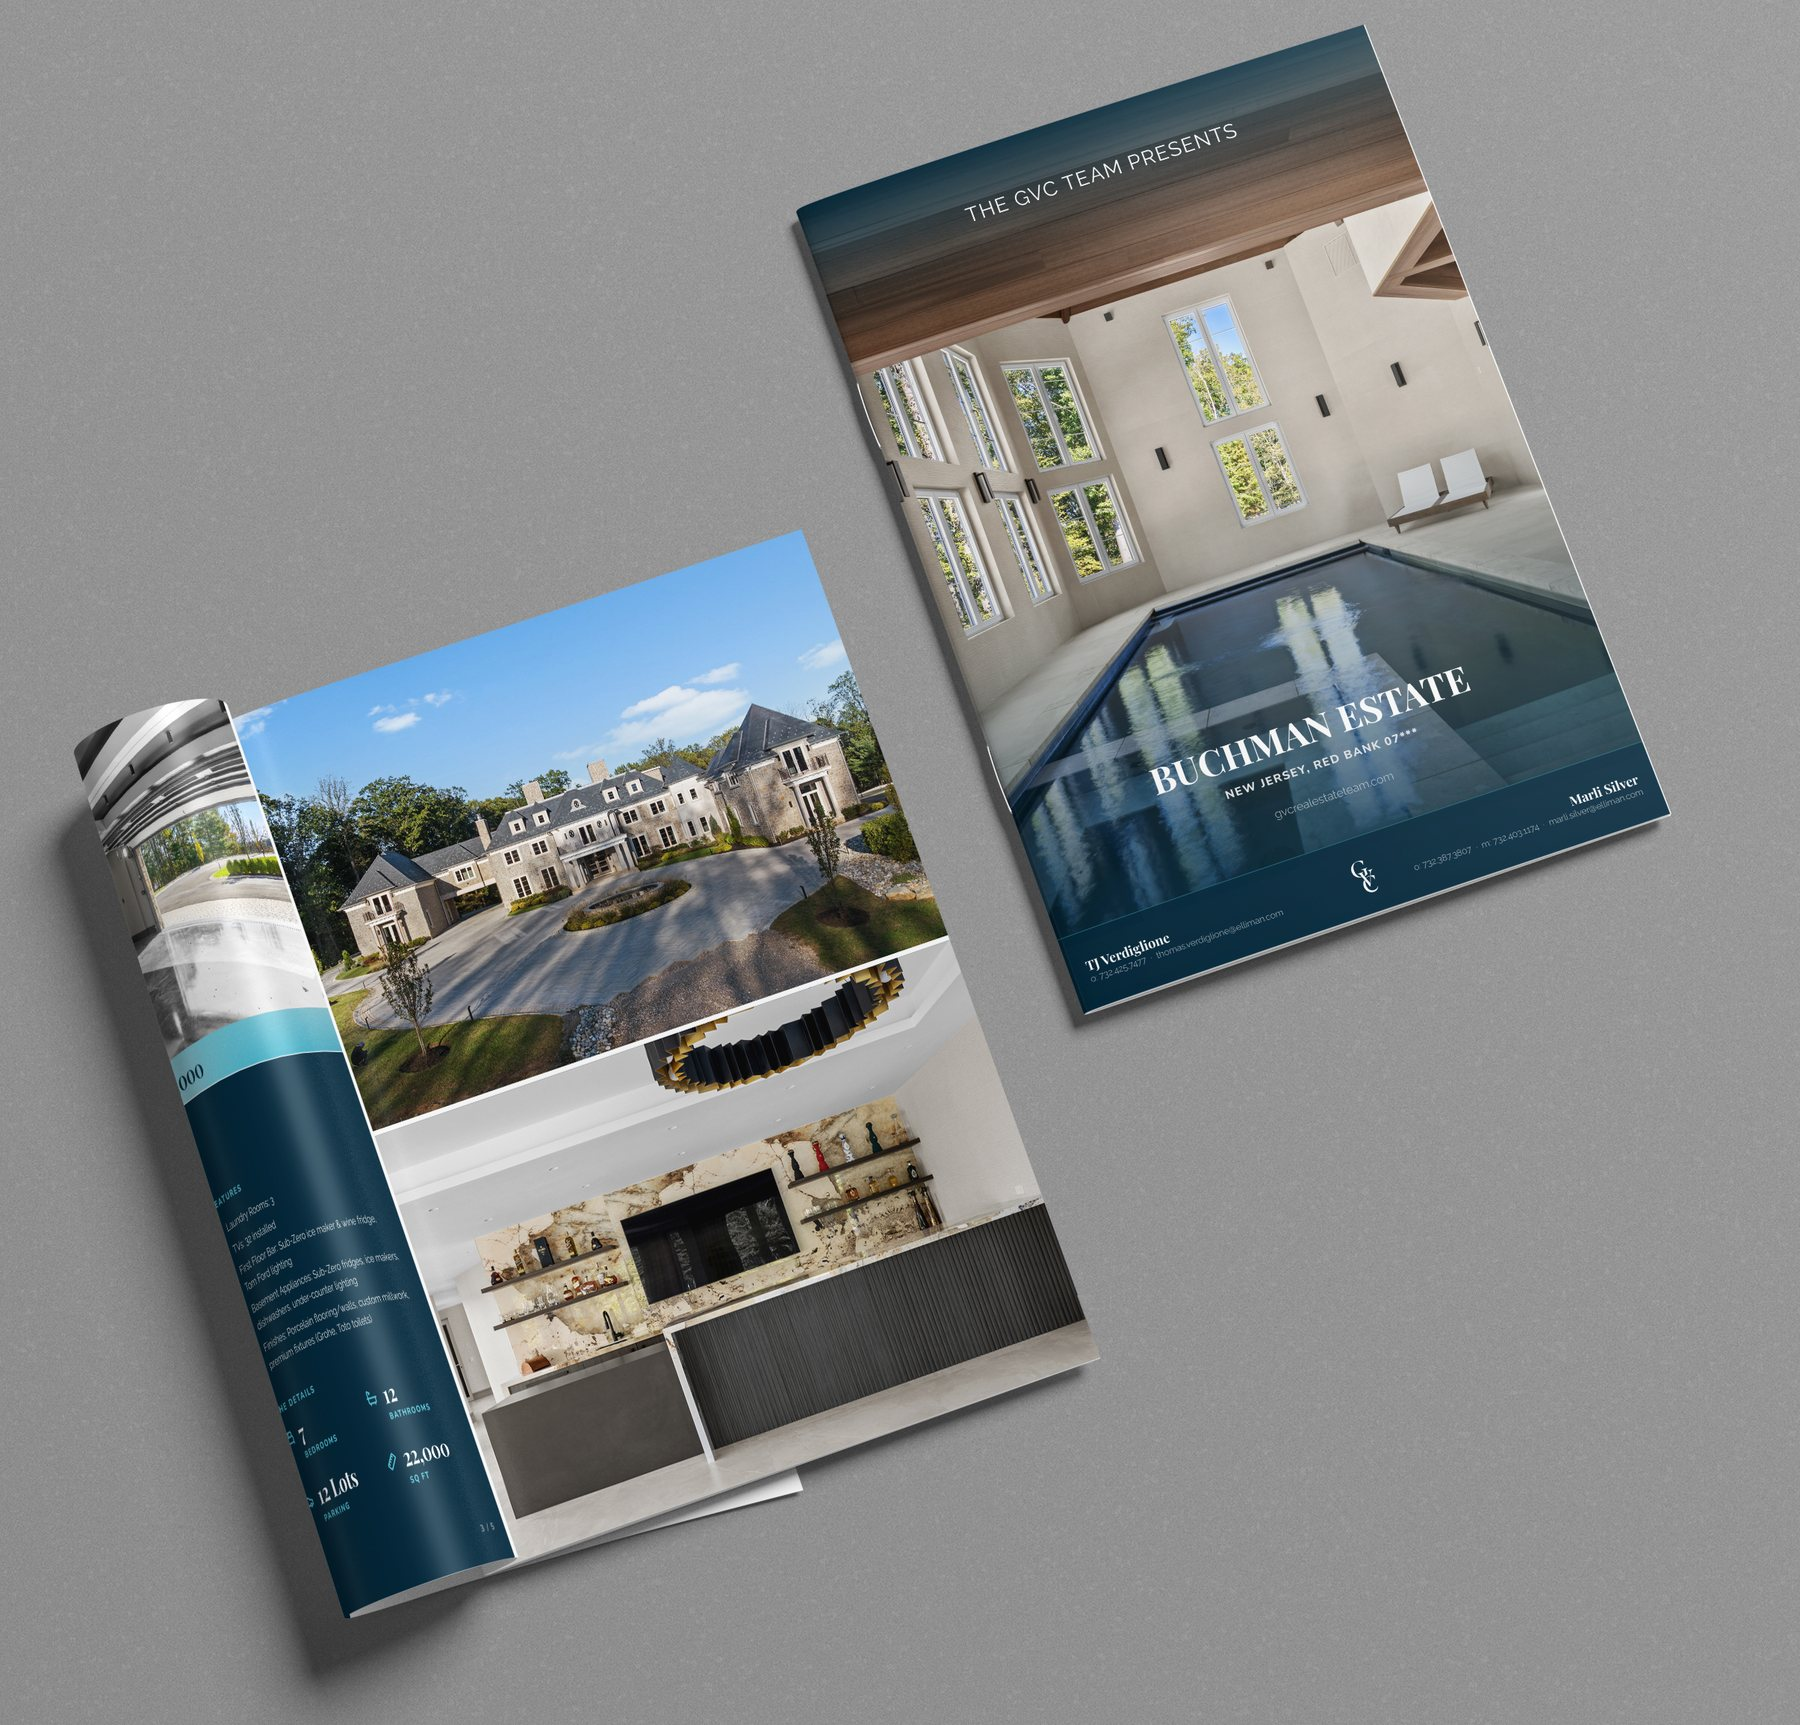
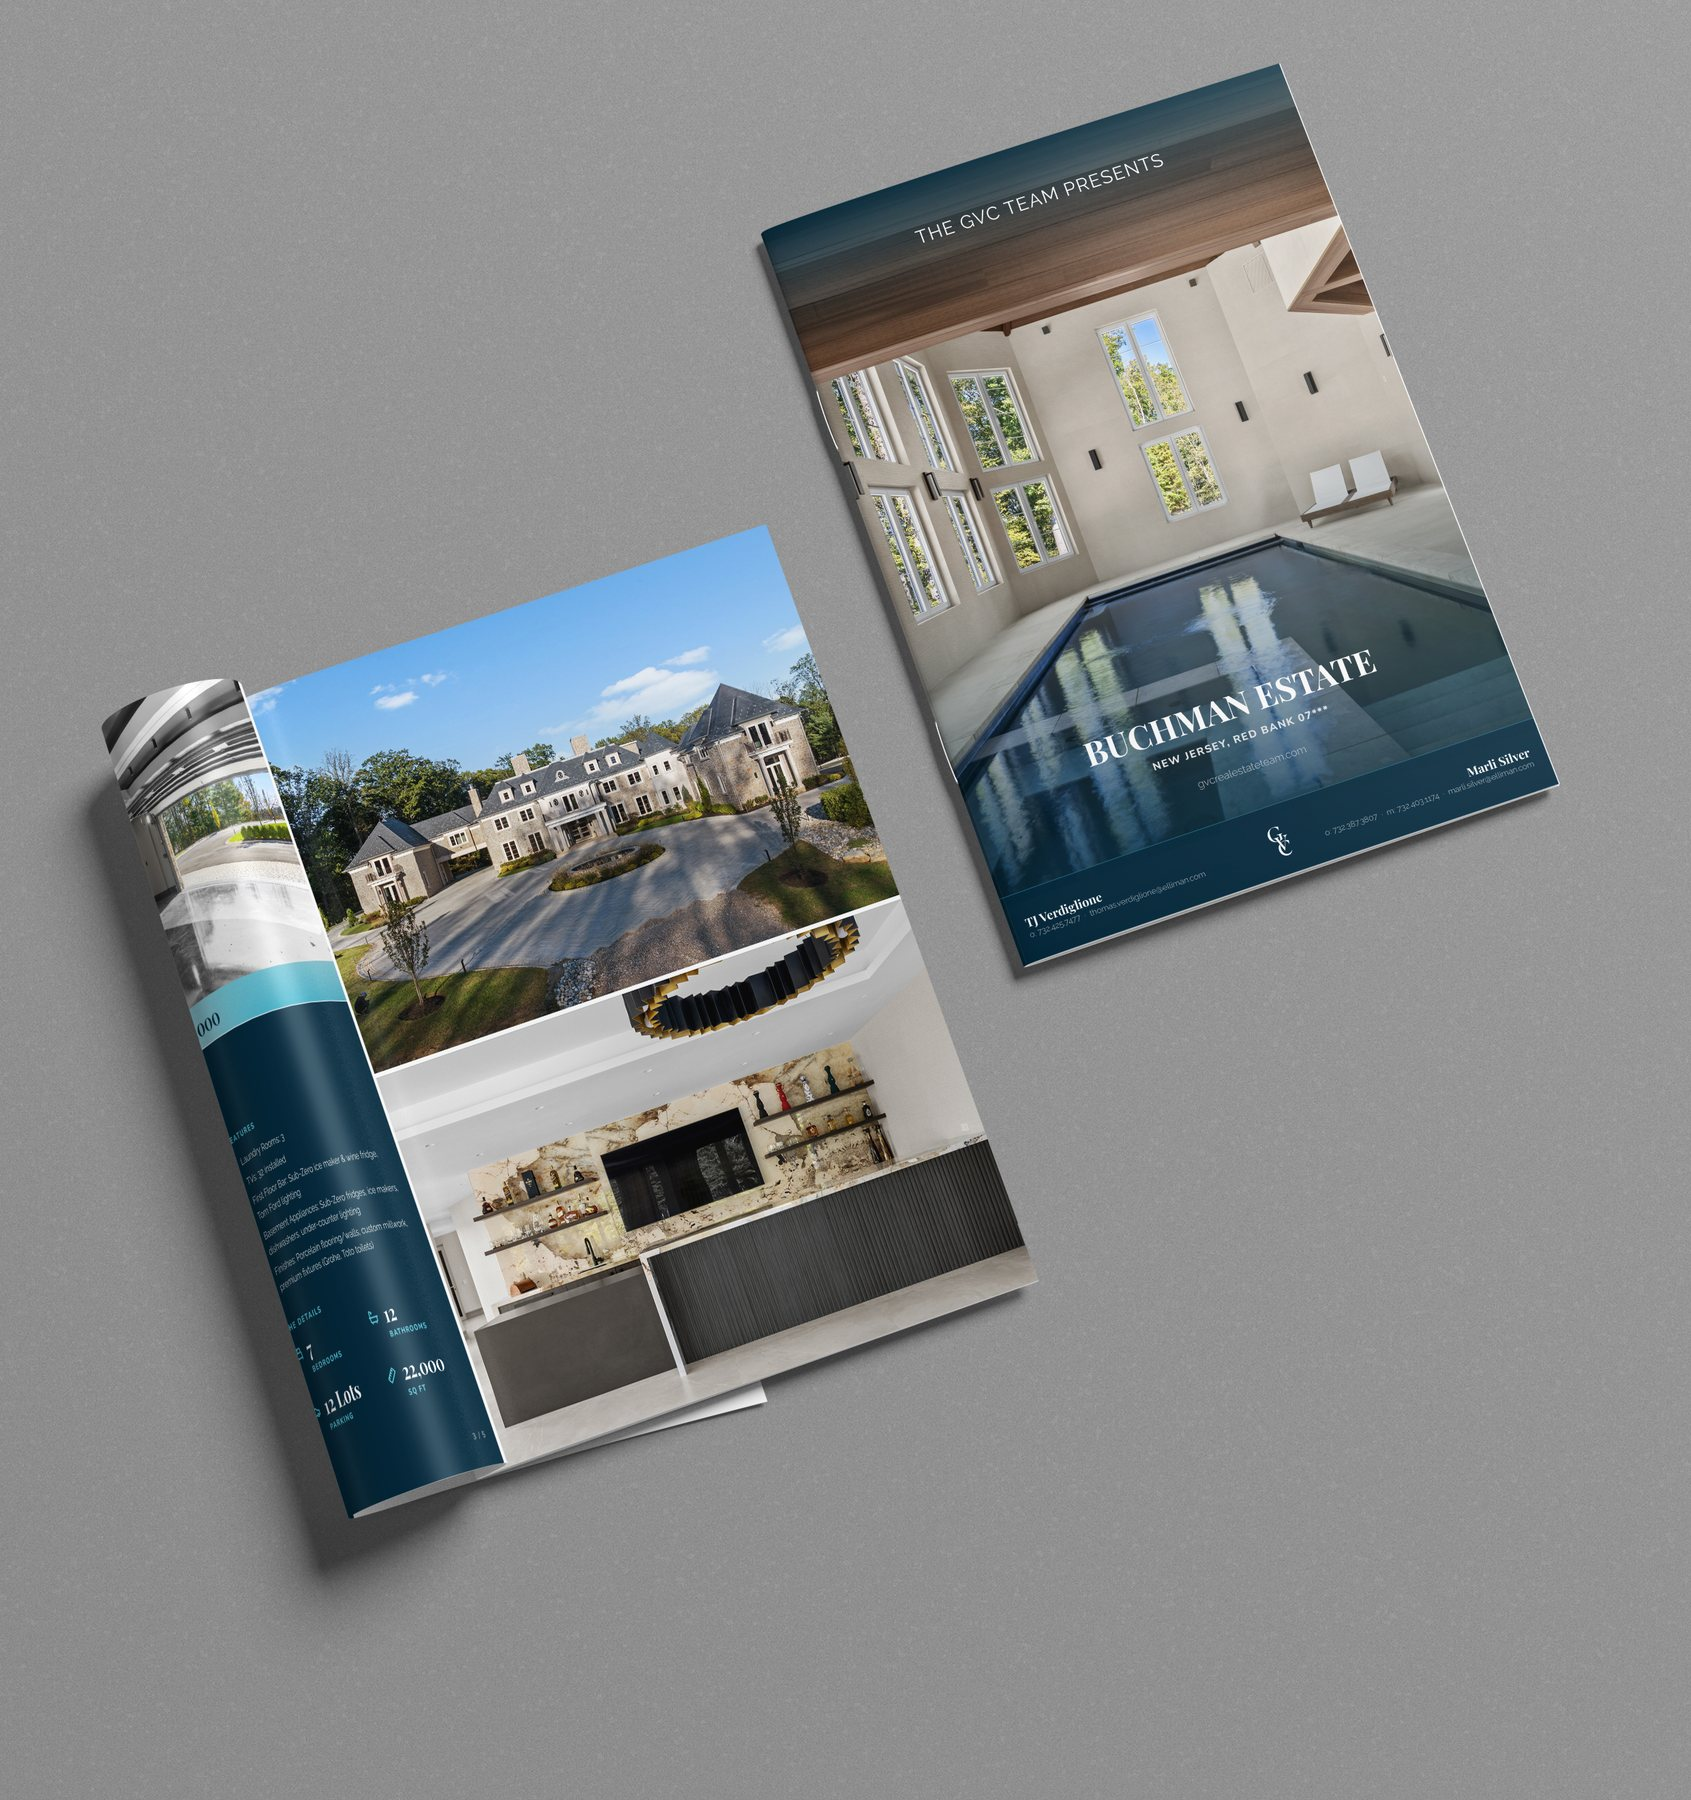
Seller pitch (NJ): Marketing page shows the brochure's cover and its property spread side by side
Both mockups come from Matt's fresh exports (Magazine 3 and 4); the four
in-house tiles become a strip under them. NYC is unchanged.

diff --git a/tools/seller-package/index.html b/tools/seller-package/index.html
@@ -97,14 +97,17 @@
 .crew .cell.lab.inh{align-items:center;text-align:center;aspect-ratio:1/2;}
 .crew .cell.lab.inh .ci{width:.4in;height:.4in;margin-bottom:.12in;color:#fff;}
 .crew .cell.lab.n3.inh .ci,.crew .cell.lab.n4.inh .ci{color:var(--navy);}
-/* ...beside a mockup of a brochure the team designed, the four squares
-   folded into a 2x2 so the piece of work gets the width */
-.showcase{display:grid;grid-template-columns:1.75fr 1fr;height:4.5in;flex:none;margin-bottom:.24in;}
+/* ...under two mockups of a brochure the team designed (its cover, then a
+   spread), the four squares folded into a strip so the work gets the room */
+.showcase{display:flex;flex-direction:column;flex:none;margin-bottom:.24in;}
+.showcase .mocks{display:grid;grid-template-columns:1fr 1fr;gap:.06in;height:3.9in;margin-bottom:.06in;}
 .showcase .mock{overflow:hidden;min-width:0;background:#929292;}
 .showcase .mock img{width:100%;height:100%;object-fit:cover;display:block;}
-.showcase .crew{grid-template-columns:1fr 1fr;grid-template-rows:1fr 1fr;margin:0;}
-.showcase .crew .cell.lab.inh{aspect-ratio:auto;}
-.showcase .crew .cell.lab.inh .ci{width:.32in;height:.32in;margin-bottom:.1in;}
+.showcase .crew{margin:0;}
+.showcase .crew .cell.lab.inh{aspect-ratio:auto;flex-direction:row;gap:.1in;padding:.17in .1in;}
+.showcase .crew .cell.lab.inh .ci{width:.24in;height:.24in;margin:0;}
+.showcase .crew .cell.lab.inh .tt{display:none;}
+.showcase .crew .cell.lab.inh .nm{font-size:10pt;}
 /* Your Property, New Jersey: every digit the same height (lining figures),
    so prices and sizes do not bob up and down in the serif. */
 .pg[data-market="nj"][data-key="property"],
@@ -1146,7 +1149,10 @@ function pgStudioNj(n) {
                 ['pen', 'Design', 'n3'], ['megaphone', 'Social Media', 'n4']];
   const body =
     '<div class="showcase">' +
-      '<div class="mock"><img src="../../assets/img/nj/brochure-mockup.jpg" alt="A GVC listing brochure"></div>' +
+      '<div class="mocks">' +
+        '<div class="mock"><img src="../../assets/img/nj/brochure-mockup.jpg" alt="A GVC listing brochure, cover"></div>' +
+        '<div class="mock"><img src="../../assets/img/nj/brochure-spread.jpg" alt="A GVC listing brochure, property spread"></div>' +
+      '</div>' +
       '<div class="crew">' + work.map(w =>
         '<div class="cell lab inh ' + w[2] + '">' + ico(w[0]) + '<div class="nm">' + w[1] + '</div>' +
         '<div class="tt">In-house</div></div>').join('') + '</div>' +
